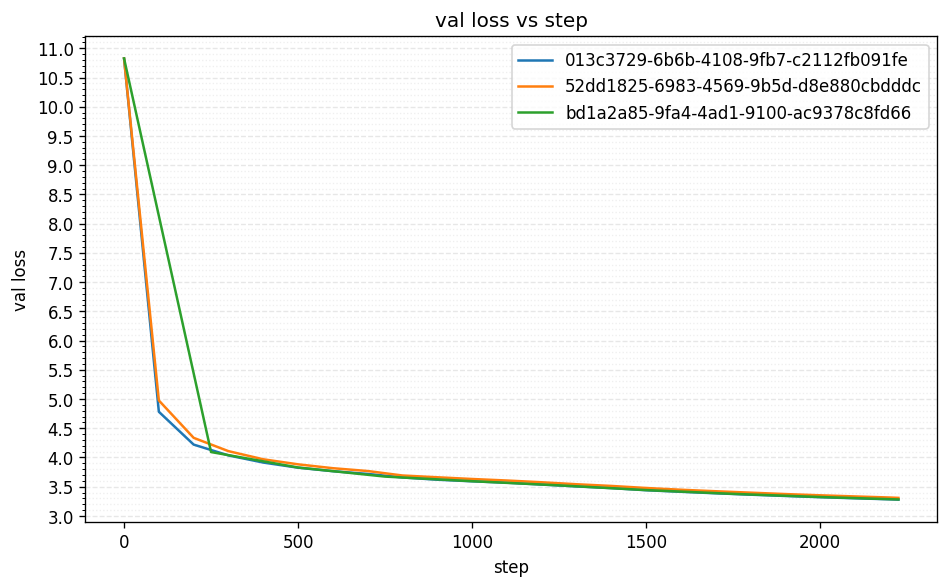
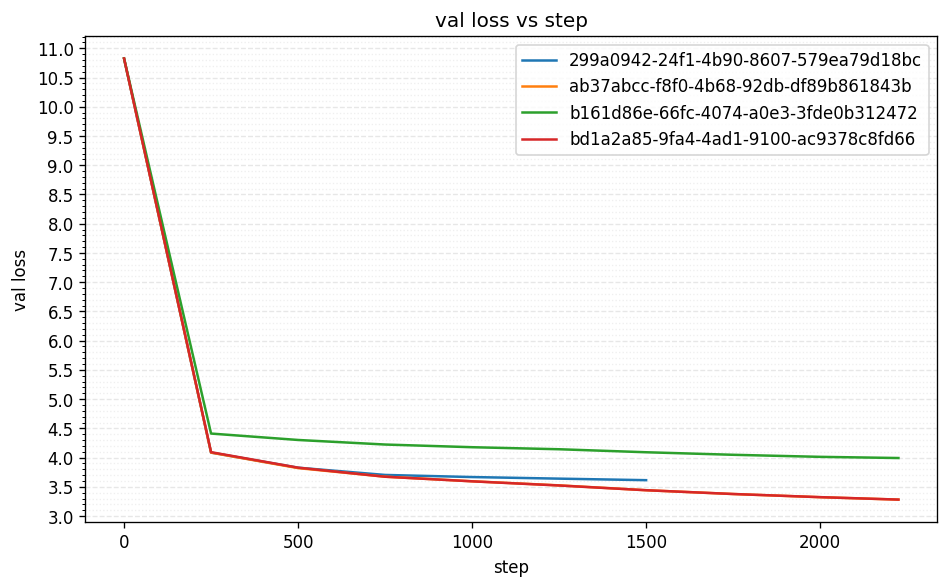
hyps

Changed region(s): [[0.1222, 0.0918, 0.9473, 0.8571], [0.5501, 0.0918, 0.9779, 0.2755], [0.5195, 0.0918, 0.5501, 0.2143]]

diff --git a/adtrain.py b/adtrain.py
@@ -1601,20 +1601,22 @@ class Hyperparameters:
     cooldown_frac: float = 0.50  # fraction of num_scheduled_iterations spent cooling down the learning rate
     # optimizer selection
     scalar_optimizer: str = "adam"  # "adam" or "ademamix"
-    use_schedule_free: bool = False  # wrap optimizer in schedule-free wrapper
+    use_schedule_free: bool = True # wrap optimizer in schedule-free wrapper
     schedule_free_beta: float = 0.9  # beta for schedule-free (if enabled)
     # ademamix parameters (only used if scalar_optimizer == "ademamix")
     ademamix_beta3: float = 0.9999  # slow momentum decay
-    ademamix_alpha: float = 5.0  # slow EMA mixing coefficient
-    ademamix_alpha_warmup_steps: int = 1000
-    ademamix_beta3_warmup_steps: int = 1000
+    ademamix_alpha: float = 2.0  # slow EMA mixing coefficient
+    # ademamix_alpha_warmup_steps: int = 1000
+    ademamix_alpha_warmup_steps: int = 0 
+    # ademamix_beta3_warmup_steps: int = 1000
+    ademamix_beta3_warmup_steps: int = 0 
     # optimizer switching
-    switch_optimizer_at_step: int = -1  # step to switch optimizer (-1 = no switching)
+    switch_optimizer_at_step: int = 500  # step to switch optimizer (-1 = no switching)
     switch_to_optimizer: str = "ademamix"  # optimizer to switch to
     switch_transfer_momentum: bool = True  # transfer momentum when switching
     # momentum soft reset
     soft_reset_momentum_at_steps: tuple = ()  # steps to soft reset momentum (e.g., (500, 1000))
-    soft_reset_momentum_beta: float = 0.1  # temporary beta1 value for soft reset (lower = more reset)
+    soft_reset_momentum_beta: float = 0.4  # temporary beta1 value for soft reset (lower = more reset)
     # evaluation and logging
     run_id: str = f"{uuid.uuid4()}"
     val_loss_every: int = 250  # every how many steps to evaluate val loss? 0 for only at the end
@@ -1731,10 +1733,12 @@ def create_optimizers(optimizer_name):
         opt2 = DistAdEMAMix(
             hidden_matrix_params + gate_params,
             lr=0.03,
-            betas=(0.95, 0.95, args.ademamix_beta3),
+            # betas=(0.95, 0.95, args.ademamix_beta3),
+            betas=(0.9, 0.999, args.ademamix_beta3),
             alpha=args.ademamix_alpha,
             eps=1e-8,
-            weight_decay=1.2,
+            # weight_decay=1.2,
+            weight_decay=0.0,
             alpha_warmup_steps=args.ademamix_alpha_warmup_steps,
             beta3_warmup_steps=args.ademamix_beta3_warmup_steps,
         )
@@ -1758,6 +1762,10 @@ def get_lr(step: int):
     if x >= 1 - args.cooldown_frac:
         w = (1 - x) / args.cooldown_frac
         lr = w * 1.0 + (1 - w) * 0.1
+
+    if x >= 500:
+        lr += 1.5*x
+
     return lr
 
 def get_ws(step: int):
